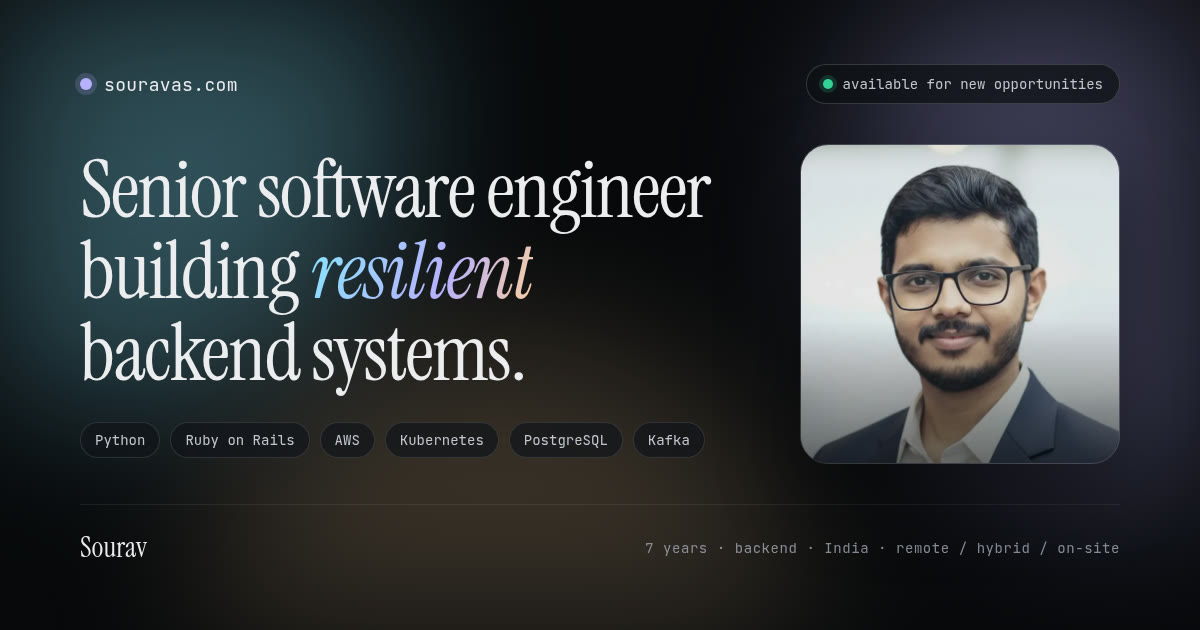
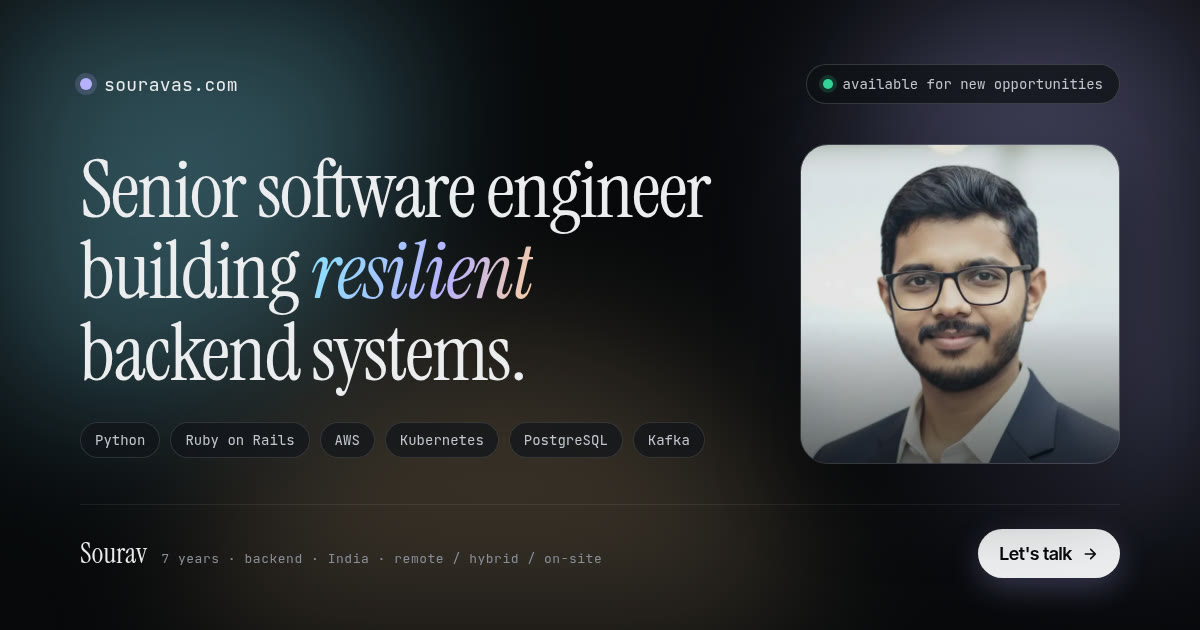
Lengthen title & description, add CTA pill to OG card
Addresses opengraph.xyz feedback: title and description were below the
50-60 / 110-160 character optimums, and the OG image lacked a clear
call-to-action.

- title / og:title / twitter:title now 58 chars and lead with the
  backend focus.
- meta description / og:description / twitter:description now 149 chars
  and unified (previously the meta description was 131 chars while the
  social ones were only 88).
- og-cover.jpg adds a "Let's talk →" pill in the footer as an obvious
  CTA, with the secondary metadata kept inline next to the name.

diff --git a/index.html b/index.html
@@ -17,8 +17,8 @@
 
   <meta http-equiv="Content-Security-Policy" content="default-src 'self'; script-src 'self' 'unsafe-inline'; style-src 'self' 'unsafe-inline'; font-src 'self'; img-src 'self' data:; connect-src 'self'; base-uri 'self'; form-action 'self'; object-src 'none'" />
 
-  <title>Sourav — Senior Software Engineer</title>
-  <meta name="description" content="Sourav — Senior Software Engineer (7 years). Backend specialist · Python · Ruby on Rails · REST APIs · AWS · Kubernetes · PostgreSQL." />
+  <title>Sourav — Senior Software Engineer · Backend Systems &amp; APIs</title>
+  <meta name="description" content="Senior Software Engineer (7 years) shipping REST APIs, optimizing databases, and automating backends. Python · Rails · AWS · Kubernetes · PostgreSQL." />
   <meta name="author" content="Sourav" />
   <meta name="robots" content="index, follow, max-image-preview:large, max-snippet:-1, max-video-preview:-1" />
 
@@ -28,8 +28,8 @@
 
   <meta property="og:site_name" content="Sourav" />
   <meta property="og:locale" content="en_US" />
-  <meta property="og:title" content="Sourav — Senior Software Engineer" />
-  <meta property="og:description" content="Backend specialist · Python · Ruby on Rails · REST APIs · AWS · Kubernetes · PostgreSQL." />
+  <meta property="og:title" content="Sourav — Senior Software Engineer · Backend Systems &amp; APIs" />
+  <meta property="og:description" content="Senior Software Engineer (7 years) shipping REST APIs, optimizing databases, and automating backends. Python · Rails · AWS · Kubernetes · PostgreSQL." />
   <meta property="og:url" content="https://souravas.com/" />
   <meta property="og:type" content="profile" />
   <meta property="profile:first_name" content="Sourav" />
@@ -41,8 +41,8 @@
   <meta property="og:image:height" content="630" />
   <meta property="og:image:alt" content="Sourav — Senior Software Engineer building resilient backend systems." />
   <meta name="twitter:card" content="summary_large_image" />
-  <meta name="twitter:title" content="Sourav — Senior Software Engineer" />
-  <meta name="twitter:description" content="Backend specialist · Python · Ruby on Rails · REST APIs · AWS · Kubernetes · PostgreSQL." />
+  <meta name="twitter:title" content="Sourav — Senior Software Engineer · Backend Systems &amp; APIs" />
+  <meta name="twitter:description" content="Senior Software Engineer (7 years) shipping REST APIs, optimizing databases, and automating backends. Python · Rails · AWS · Kubernetes · PostgreSQL." />
   <meta name="twitter:image" content="https://souravas.com/assets/og-cover.jpg" />
   <meta name="twitter:image:alt" content="Sourav — Senior Software Engineer building resilient backend systems." />
 